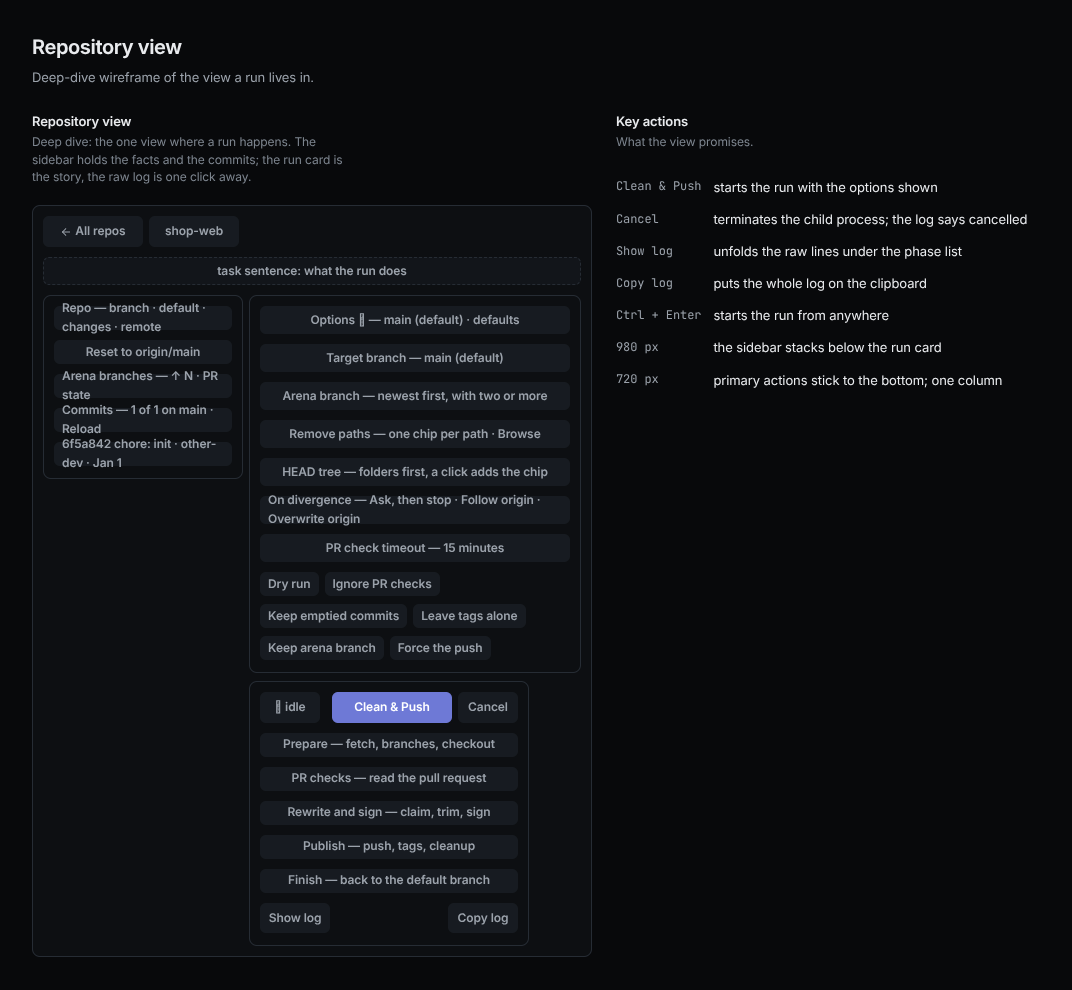
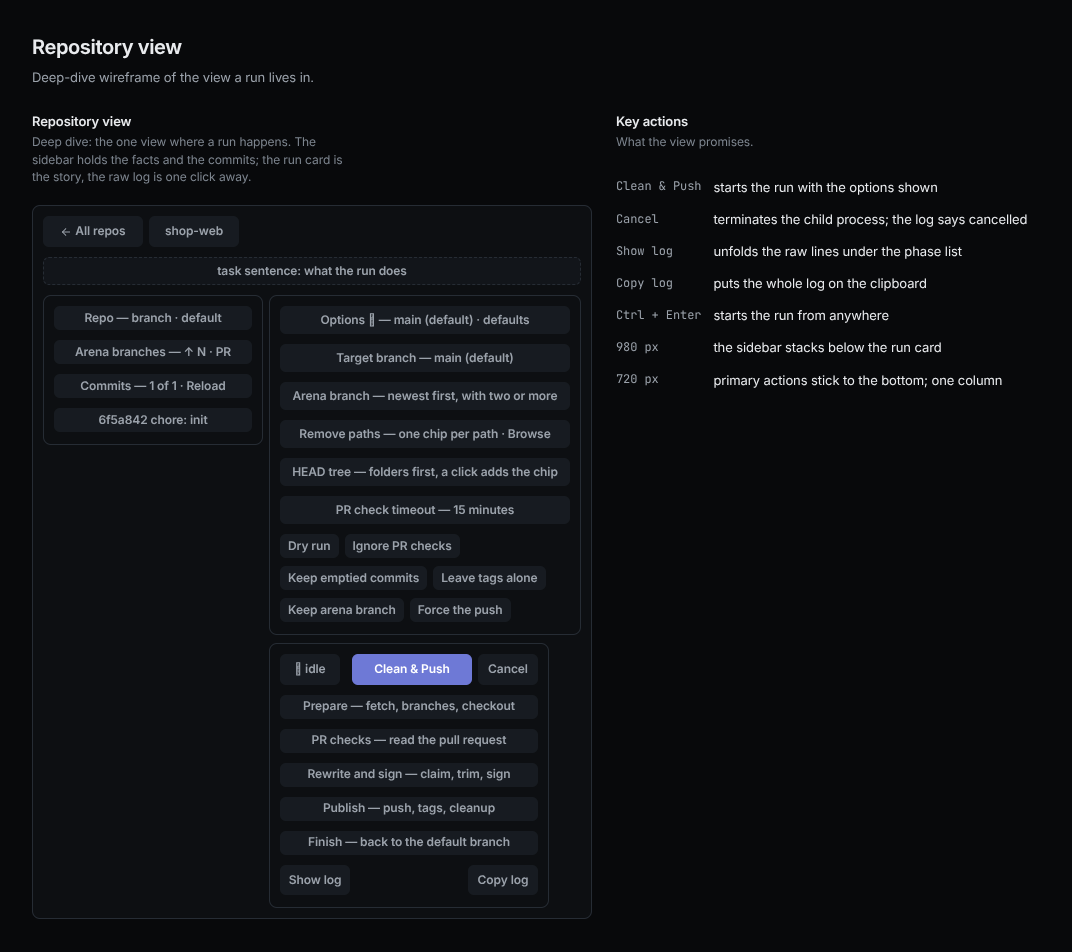
feat(ui): reset a managed clone to origin before every run

diff --git a/ui/static/index.html b/ui/static/index.html
@@ -150,7 +150,6 @@
   .btn.ghost.rm { color: var(--dim); border-color: transparent; background: transparent; width: 30px; height: 30px; padding: 0; margin-left: auto; }
   .btn.ghost.rm:hover, .btn.ghost.rm:active { color: var(--err); border-color: rgba(240, 87, 79, .5); background: rgba(240, 87, 79, .1); }
   .btn.ghost.rm.armed { width: auto; padding: 0 10px; }
-  .side-btn { margin: 6px 6px 0; justify-content: center; }
   .icon-btn {
     display: inline-grid; place-items: center; width: 32px; height: 32px; font-size: 16px;
     border-radius: 8px; border: 1px solid var(--line-2); background: var(--surface-2);
@@ -335,7 +334,7 @@
   .card-head .hint { color: var(--dim); font-size: var(--fs-1); }
   .card-body { padding: 16px; }
 
-  /* two columns: the divergence control needs about 360 px, which four cells never give */
+  /* two columns: a field with its description needs about 360 px, which four cells never give */
   .options { display: grid; grid-template-columns: repeat(2, minmax(0, 1fr)); gap: 0 20px; }
   .opt { padding: 8px 2px; border-bottom: 1px solid var(--line); min-width: 0; }
   .opt[hidden] { display: none; }
@@ -390,12 +389,6 @@
   .toggle.danger[aria-pressed="true"] .sw::after { background: var(--warn); }
   .toggle small { color: var(--dim); font-size: var(--fs-1); }
 
-  .seg-row { display: inline-flex; gap: 2px; padding: 2px; border-radius: 9px; background: var(--surface-2); border: 1px solid var(--line-2); }
-  .seg-row button { border: 0; background: none; color: var(--muted); padding: 4px 12px; border-radius: 6px; cursor: pointer; font-size: var(--fs-2); font-weight: 520; }
-  /* a narrow cell wraps whole buttons onto a second row, never the words inside one */
-  .seg-row { flex-wrap: wrap; }
-  .seg-row button { white-space: nowrap; flex: 1 1 auto; }
-  .seg-row button[aria-pressed="true"] { background: var(--surface-3); color: var(--text); box-shadow: inset 0 0 0 1px var(--line-2); }
 
   .console { display: flex; flex-direction: column; position: relative; }
   .console .card-head { border-bottom: 0; }
@@ -606,7 +599,7 @@
     .arena-row .prlink { min-height: 44px; }
     .btn, .btn.back { min-height: 44px; }
     .field, select.field { height: 44px; }
-    .seg-row button, .toggle { min-height: 44px; }
+    .toggle { min-height: 44px; }
     .tabbar .btn { height: 46px; font-size: 15px; }
     .chip-x { padding: 4px 4px 4px 10px; }
     .chip-x button { padding: 4px 6px; }
@@ -624,7 +617,6 @@
     .banner, .toast, .wrap h2, .card-head h2, .skip, .steps,
     .opt-label label, .opt-label span.lbl, .phase-name, .toggle { font-size: 13px; }
     .status, #statustext, .phase-ico, .commit .sig, .commit .sha, .toggle small { font-size: 12px; }
-    .seg-row button { font-size: 14px; }
     .brand .name, .repo-card .btn, .card-actions .btn, .run-foot .btn { font-size: 14px; }
     .wrap h1, .hero h1, .wrap h1.page-title { font-size: 19px; }
   }
@@ -720,14 +712,6 @@
                 <input id="pathin" placeholder="add a file or folder…" spellcheck="false" autocomplete="off" aria-label="Add a path to remove">
               </div>
               <div class="tree" id="tree" role="tree" aria-label="Files at HEAD" hidden></div>
-            </div>
-            <div class="opt" id="opt-div">
-              <div class="opt-label"><span class="lbl">On divergence</span><span class="desc">local vs origin</span></div>
-              <div class="seg-row" id="divergence">
-                <button data-v="ask" aria-pressed="true" title="Cancels the run and reports the commits that differ. Nothing is pushed.">Ask, then stop</button>
-                <button data-v="remote" aria-pressed="false" title="Drops local commits that origin does not have, then rewrites what origin has.">Follow origin</button>
-                <button data-v="local" aria-pressed="false" title="Keeps the local commits and pushes them over origin.">Overwrite origin</button>
-              </div>
             </div>
             <div class="opt" id="opt-timeout">
               <div class="opt-label"><label for="timeout">PR check timeout</label><span class="desc">minutes, 0 = don’t wait</span></div>
@@ -825,7 +809,6 @@
     repos: [],
     repo: null,
     opts: { dry_run: false, skip_pr_check: false, keep_empty: false, no_tags: false, keep_branch: false, force: false },
-    divergence: "ask",
     paths: [],
     branch: "",
     arena: "",
@@ -1010,7 +993,6 @@
       meta.append(el("span", { class: "pill err" }, el("i", { class: "dot" }), s.reason || "unavailable"));
     } else {
       meta.append(el("span", { class: "pill mono" }, s.branch));
-      if (s.dirty) meta.append(el("span", { class: "pill warn" }, `${s.dirty} uncommitted`));
     }
 
     let arena = null;
@@ -1155,37 +1137,8 @@
                el("span", { class: "meta" }, metaFor((s.pr || {})[b], s.pr_checked)))))
         : [el("div", { class: "row-btn", style: "cursor:default;color:var(--dim)" }, el("span", { class: "txt" }, "none on origin"))]));
 
-    // Two clicks, like the card's Remove: the first arms, the second resets.
-    const target = `origin/${s.default || "?"}`;
-    let timer = 0;
-    const disarm = () => { reset.classList.remove("armed"); reset.textContent = `Reset to ${target}`; };
-    const reset = el("button", {
-      class: "btn ghost side-btn", id: "reset-btn",
-      title: "Check out the default branch and reset it hard to origin. Untracked files stay.",
-      onclick: async () => {
-        if (!reset.classList.contains("armed")) {
-          reset.classList.add("armed");
-          reset.textContent = "Discard local changes?";
-          timer = setTimeout(disarm, 4000);
-          return;
-        }
-        clearTimeout(timer);
-        reset.disabled = true;
-        try {
-          const out = await post(`/api/repos/${state.repo.id}/reset`, {});
-          toast(`reset to ${out.reset}`);
-          await refreshStatus();
-          loadCommits();
-        } catch (err) {
-          toast(err.message);
-          reset.disabled = false;
-          disarm();
-        }
-      },
-    }, `Reset to ${target}`);
-
     side.replaceChildren(
-      el("div", { class: "side-group" }, el("div", { class: "side-label" }, "Repo"), kv, reset),
+      el("div", { class: "side-group" }, el("div", { class: "side-label" }, "Repo"), kv),
       branches);
   }
 
@@ -1313,7 +1266,6 @@
       keep_empty: state.opts.keep_empty,
       branch: state.branch || "",
       arena: state.arena || "",
-      divergence: state.divergence,
       force: state.opts.force,
       skip_pr_check: state.opts.skip_pr_check,
       keep_branch: state.opts.keep_branch,
@@ -1334,7 +1286,6 @@
     if (body.keep_branch) parts.push("--keep-branch");
     if (body.no_tags) parts.push("--no-tags");
     if (body.force) parts.push("--force");
-    if (body.divergence !== "ask") parts.push("--on-divergence", body.divergence);
     parts.push("--check-timeout", String(Number($("timeout").value || 15) * 60));
     return parts.join(" ");
   }
@@ -1343,7 +1294,6 @@
     ["dry_run", "dry run"], ["skip_pr_check", "ignore PR checks"], ["keep_empty", "keep emptied"],
     ["no_tags", "leave tags"], ["keep_branch", "keep arena branch"], ["force", "force"],
   ];
-  const DIVERGENCE_WORDS = { remote: "follow origin", local: "overwrite origin" };
 
   function optionsSummary() {
     const body = payload();
@@ -1351,7 +1301,6 @@
     if (state.arena) bits.push(state.arena);
     if (state.paths.length) bits.push(`${state.paths.length} path${state.paths.length === 1 ? "" : "s"}`);
     for (const [key, word] of SUMMARY_WORDS) if (body[key]) bits.push(word);
-    if (body.divergence !== "ask") bits.push(DIVERGENCE_WORDS[body.divergence] || body.divergence);
     const minutes = Number($("timeout").value || 15);
     if (minutes !== 15) bits.push(`${minutes} min`);
     return bits.length ? bits.join(" · ") : "defaults";
@@ -2062,14 +2011,6 @@
     const key = btn.dataset.opt;
     state.opts[key] = !state.opts[key];
     btn.setAttribute("aria-pressed", String(state.opts[key]));
-    renderCommand();
-  };
-
-  $("divergence").onclick = (ev) => {
-    const btn = ev.target.closest("button[data-v]");
-    if (!btn) return;
-    state.divergence = btn.dataset.v;
-    for (const b of $("divergence").querySelectorAll("button")) b.setAttribute("aria-pressed", String(b === btn));
     renderCommand();
   };
 

diff --git a/scripts/design_boards.py b/scripts/design_boards.py
@@ -319,9 +319,6 @@ def wireframe_board(_: dict[str, bytes]) -> str:
     + block("Arena branch — newest first, with two or more", height=28)
     + block("Remove paths — one chip per path · Browse", height=28)
     + block("HEAD tree — folders first, a click adds the chip", height=28)
-    + block(
-      "On divergence — Ask, then stop · Follow origin · Overwrite origin", height=28
-    )
     + block("PR check timeout — 15 minutes", height=28)
     + '<div class="bar" style="flex-wrap:wrap">'
     + "".join(
@@ -361,11 +358,10 @@ def wireframe_board(_: dict[str, bytes]) -> str:
     + "</div>"
   )
   sidebar = (
-    block("Repo — branch · default · changes · remote", height=24)
-    + block("Reset to origin/main", height=24)
-    + block("Arena branches — ↑ N · PR state", height=24)
-    + block("Commits — 1 of 1 on main · Reload", height=24)
-    + block("6f5a842  chore: init · other-dev · Jan 1", height=24)
+    block("Repo — branch · default", height=24)
+    + block("Arena branches — ↑ N · PR", height=24)
+    + block("Commits — 1 of 1 · Reload", height=24)
+    + block("6f5a842  chore: init", height=24)
   )
   screen = (
     '<div class="scr wide" style="width:560px">'
@@ -375,7 +371,7 @@ def wireframe_board(_: dict[str, bytes]) -> str:
     + "</div>"
     + block("task sentence: what the run does", soft=True, height=28)
     + '<div class="bar" style="align-items:flex-start">'
-    + f'<div class="scr" style="width:200px">{sidebar}</div>'
+    + f'<div class="scr" style="width:220px">{sidebar}</div>'
     + '<div class="col" style="gap:8px;flex:1">'
     + f'<div class="scr" style="width:auto">{options}</div>'
     + f'<div class="scr" style="width:auto">{run}</div>'
@@ -703,9 +699,7 @@ def do_dont_board(_: dict[str, bytes]) -> str:
     ahead = f"{icon('arrow-up')}23"
     return "".join(
       f'<span class="pill {cls}" style="margin-right:{g}px">{t}</span>'
-      for g, cls, t in zip(
-        gaps, ("mono", "warn", "mono ahead"), ("main", "3 uncommitted", ahead)
-      )
+      for g, cls, t in zip(gaps, ("mono", "", "mono ahead"), ("main", "#203", ahead))
     )
 
   spacing_do = f'<div class="off" style="gap:0">{meta_pills((6, 6, 0))}</div>'

diff --git a/tests/test_ui.py b/tests/test_ui.py
@@ -269,6 +269,37 @@ def test_add_by_clone_url(ui: UI, world: World, ids: dict[str, str]) -> None:
   assert ui.status("GET", "/api/repos/deadbeef1234") == 404
 
 
+def test_a_run_resets_a_managed_clone(
+  ui: UI, world: World, ids: dict[str, str]
+) -> None:
+  path = Path(ids["clone_path"])
+
+  def git(*args: str) -> str:
+    return world.git("-c", "commit.gpgsign=false", *args, cwd=path)
+
+  # local work: a stale arena copy with a commit, and a dirty tree
+  git("checkout", "-q", "-b", "arena/stale-copy")
+  (path / "junk.txt").write_text("stale\n")
+  git("add", "junk.txt")
+  git(
+    "-c", "user.name=t", "-c", "user.email=t@example.com", "commit", "-q", "-m", "stale"
+  )
+  tracked = git("ls-files").splitlines()[0]
+  (path / tracked).write_text("dirty\n")
+  assert git("status", "--porcelain") != ""
+
+  job = ui.post(
+    f"/api/repos/{ids['clone']}/jobs",
+    {"action": "run", "dry_run": True, "arena": "arena/ui-test"},
+  )
+  assert ui.wait_for_job(job["id"])["status"] == "done"
+  assert git("rev-parse", "--abbrev-ref", "HEAD") == "main"
+  assert git("rev-parse", "HEAD") == git("rev-parse", "origin/main")
+  assert git("status", "--porcelain") == "", "origin wins over local changes"
+  assert git("branch", "--list", "arena/*") == "", "local arena copies are gone"
+  assert "arena/ui-test" in ui.get(f"/api/repos/{ids['clone']}")["status"]["arena"]
+
+
 def test_one_click_dry_run_job(ui: UI, world: World, ids: dict[str, str]) -> None:
   before = world.rev()
   job = ui.post(

diff --git a/scripts/walk.py b/scripts/walk.py
@@ -348,6 +348,9 @@ def sidebar_and_branch_selector(w: Walker, demo: Demo) -> None:
   assert w.count("#sidebar button[data-branch]") == 0, "arena rows are not targets"
   assert w.count("#sidebar .row-btn .ahead") == 1
   assert "HEAD" not in sidebar, "the HEAD block is gone"
+  assert w.count("#reset-btn") == 0 and w.count("#divergence") == 0, (
+    "origin wins before every run"
+  )
   assert w.count("#sidebar .commit") >= 1, "the commits live in the sidebar"
   assert (
     w.page.eval_on_selector("#sidebar", "e => e.getBoundingClientRect().width") == 320
@@ -365,14 +368,6 @@ def option_toggle_updates_the_argv(w: Walker, demo: Demo) -> None:
   assert "--dry-run" in w.start_argv()
   w.click(toggle, 200)
   assert "--dry-run" not in w.start_argv()
-
-
-@step("desktop")
-def divergence_segmented_control(w: Walker, demo: Demo) -> None:
-  w.click('#divergence button[data-v="remote"]', 200)
-  assert "--on-divergence remote" in w.start_argv()
-  w.click('#divergence button[data-v="ask"]', 200)
-  assert "--on-divergence" not in w.start_argv()
 
 
 @step("desktop")

diff --git a/ui/server.py b/ui/server.py
@@ -371,6 +371,17 @@ def reset_to_origin(repo: dict[str, Any]) -> str:
   return f"origin/{default}"
 
 
+def prepare_managed_clone(repo: dict[str, Any]) -> str:
+  """A managed clone holds nothing of its own: before a run, origin wins and local arena copies go."""
+  target = reset_to_origin(repo)
+  cwd = repo["path"]
+  for name in git(
+    "for-each-ref", "--format=%(refname:short)", "refs/heads/arena/", cwd=cwd
+  ).splitlines():
+    run_cmd(["git", "branch", "-D", "-q", name], cwd=cwd)
+  return target
+
+
 def repo_status(repo: dict[str, Any]) -> dict[str, Any]:
   cwd = repo["path"]
   if not os.path.isdir(cwd):
@@ -1255,6 +1266,8 @@ class Handler(BaseHTTPRequestHandler):
         repo = self._repo(parts[2])
         body = self._body()
         argv = build_argv(body, repo)
+        if repo.get("managed"):
+          prepare_managed_clone(repo)
         job = new_job(argv, repo)
         STATUS.drop(repo["id"])
         self._json({"id": job.id, "argv": argv[2:]}, 201)

diff --git a/docs/design.md b/docs/design.md
@@ -27,8 +27,8 @@ The one design record for the arena-cleanup web app. The sections follow the nem
 
 ## Screens and states
 
-- Dashboard: add bar, repository cards. Empty: a hint with the add command. Error: a banner above the cards. A card shows the branch and `N uncommitted` only when the clone is dirty. Each arena row carries `↑ N`, the commits that branch holds beyond `origin/<default>`, with a tooltip. The Remove X sits top right as a bare glyph. A red frame comes on hover, on press, and while armed.
-- Repository: a 320 px sidebar, options card, run card with the phase list and log. The options card folds from its head; closed, the head shows the branch pill and what differs from the defaults. Target branch lists the default branch first and never an `arena/*` branch. Arena branch appears with two or more arena branches, newest tip first. The chosen one goes to the run as `--arena`. The sidebar holds the repo facts, Reset to origin, and the arena rows on top. The commit list fills the rest and scrolls on its own. Each row shows hash, subject, author, and date; Reload sits in its label. The arena rows show the PR state and are not controls. The page runs the full flow only; `strip` is a CLI command. Browse under Remove paths opens the HEAD tree of the clone, one level per request. A click on a row or its plus adds the chip. Log rows show the clock of the browser. Remove on a card arms on the first click and deletes the URL clone on the second. States: idle, running, done, failed, cancelled. Reset to origin is a two-click button that checks out the default branch and resets it hard.
+- Dashboard: add bar, repository cards. Empty: a hint with the add command. Error: a banner above the cards. A card shows the branch. Each arena row carries `↑ N`, the commits that branch holds beyond `origin/<default>`, with a tooltip. The Remove X sits top right as a bare glyph. A red frame comes on hover, on press, and while armed.
+- Repository: a 320 px sidebar, options card, run card with the phase list and log. The options card folds from its head; closed, the head shows the branch pill and what differs from the defaults. Target branch lists the default branch first and never an `arena/*` branch. Arena branch appears with two or more arena branches, newest tip first. The chosen one goes to the run as `--arena`. The sidebar holds the repo facts and the arena rows on top. The commit list fills the rest and scrolls on its own. Each row shows hash, subject, author, and date; Reload sits in its label. The arena rows show the PR state and are not controls. The page runs the full flow only; `strip` is a CLI command. Browse under Remove paths opens the HEAD tree of the clone, one level per request. A click on a row or its plus adds the chip. Log rows show the clock of the browser. Remove on a card arms on the first click and deletes the URL clone on the second. States: idle, running, done, failed, cancelled. A managed clone goes back to origin before every run. The server fetches, checks out the default branch, resets hard, and drops local `arena/*` copies.
 - Settings: Identity (name, email, Save), GitHub sign-in and credential helper, signing cards, Claimed commits (two chip lists, Save). Below: About. Signing cards: gpg banner when gpg is missing, key list, create card, GitHub key steps. Disabled: Create key while gpg is missing. Error: the banner names the failed check. Each card loads on its own.
 - Offline: the service worker serves the shell; data requests fail with the normal error banner.
 - Loading and permission states: not run as separate checks.
@@ -91,7 +91,7 @@ The one design record for the arena-cleanup web app. The sections follow the nem
 ## Behavior and data
 
 - The repository registry and settings live on the server under `ARENA_DATA`. The page keeps no state beyond the open view.
-- Defaults: divergence set to Ask, then stop; PR check timeout 15 minutes; dry run off.
+- Defaults: PR check timeout 15 minutes; dry run off.
 - Validation: the add bar accepts a clone URL, a GitHub page address, or a path. The server answers errors as text the banner shows.
 - Retries: none automatic; Re-check and Reload buttons repeat a read.
 
@@ -129,7 +129,8 @@ The one design record for the arena-cleanup web app. The sections follow the nem
 - Accepted 2026-10-22: no command switch on the repository page. A local rewrite without a push is a terminal task, so `strip` lives in the CLI alone.
 - Accepted 2026-10-22: the whole options card folds, not the Target branch row alone. The select names the default branch first, keeps the empty value, and lists no `arena/*` branch; the server refuses one too.
 - Accepted 2026-10-22: with two or more arena branches the page selects one, newest tip first, in the options card. The engine gained `--arena NAME` for it and keeps the full flow. The page never passes `-b arena/*`.
-- Accepted 2026-10-22: the sidebar grows to 320 px. The commit list sits below the repo facts, Reset, and the arena rows. The HEAD block goes. The hash leads each commit row. Below 980 px the sidebar stacks under the run card instead of hiding.
+- Accepted 2026-10-22: the sidebar grows to 320 px. The commit list sits below the repo facts and the arena rows. The HEAD block goes. The hash leads each commit row. Below 980 px the sidebar stacks under the run card instead of hiding.
+- Accepted 2026-10-22: a managed clone holds nothing of its own. The server resets it to origin before every run and drops local `arena/*` copies. The page loses the Reset button, the dirty chip, and On divergence; `--on-divergence` stays a CLI flag.
 - Accepted 2026-10-22: the card and the sidebar show how far each arena branch is ahead of the default branch. The clone's own drift stays out of sight. Nobody commits in the container, and the engine handles that divergence itself.
 - Accepted 2026-10-22: the primary button reads Clean & Push. The phase list keeps Publish for the push, tags, and cleanup step.
 - Accepted 2026-10-22: a tree selector for Remove paths. It reads `git ls-tree` of HEAD in the clone, so it works for path repositories and never calls GitHub. File contents stay out; a path only old commits carried stays a typed chip.

diff --git a/CHANGELOG.md b/CHANGELOG.md
@@ -29,16 +29,16 @@ and the project uses [Semantic Versioning](https://semver.org/spec/v2.0.0.html).
 - The repository card meta drops the tag count; it shows the branch and the tree state.
 - Arena rows on the card and in the sidebar show `↑ N` with a tooltip. N counts the commits beyond the default branch.
 - `run -a/--arena NAME` answers the arena branch menu without a prompt. The page shows that select, newest tip first, when a repository has two or more arena branches. The card button uses the newest.
-- The repository sidebar is 320 px wide. It lists the commits below the repo facts, Reset, and the arena rows. The HEAD block is gone. Below 980 px it stacks under the run card.
+- The repository sidebar is 320 px wide. It lists the commits below the repo facts and the arena rows. The HEAD block is gone. Below 980 px it stacks under the run card.
 - A shallow history: one Back leaves a sub-view, the next one leaves the page.
-- The card shows `N uncommitted` only when the clone is dirty.
+- A managed clone resets to origin before every run. The server fetches, checks out the default branch, resets hard, and drops local `arena/*` copies. The page has no Reset button, dirty chip, or On divergence control; `--on-divergence` stays a CLI flag.
 - The app copy says repo and repos.
 - The claim rules come from the global git config keys `arena.claim-email` and `arena.claim-name`; the constants are the fallback. The container seeds the identity only while git config is empty.
 - One Settings page behind the gear icon: Identity, GitHub access, Commit signing, and Claimed commits, then About.
-- The options card keeps two columns above 980 px; four columns overflowed between 981 and 1179 px. The divergence control wraps whole buttons, not words.
+- The options card keeps two columns above 980 px; four columns overflowed between 981 and 1179 px.
 - Log rows show the clock of the browser. The engine stamps each line in the server zone.
 - Remove on a card deletes its URL clone from the volume; a path repo is only forgotten.
-- Reset to origin in the repository sidebar: fetch, check out the default branch, and reset it hard. Untracked files stay.
+- `POST /api/repos/<id>/reset`: fetch, check out the default branch, and reset it hard. Untracked files stay.
 - The repository page runs the full flow only. The Rewrite locally switch is gone, and `strip` stays a CLI command.
 - The card Remove X sits top right as a bare glyph. A red frame comes on hover, on press, and while armed.
 - The primary button reads Clean & Push on the card, the run card, and the phone bar.

diff --git a/README.md b/README.md
@@ -94,9 +94,8 @@ flags, and `arena-cleanup doctor` checks the setup.
 3. About sits below the settings.
 4. **Clean & Push** runs the pipeline and streams the log. A click on the
    card shows the repo view first: target branch, paths to remove, the
-   divergence policy, the check timeout, and the options (dry run, skip the
-   PR gate, keep empty commits, leave tags alone, keep the branch, force the
-   push).
+   check timeout, and the options (dry run, skip the PR gate, keep empty
+   commits, leave tags alone, keep the branch, force the push).
 
 Signed out, every card reads **checks unavailable** instead of **no PR**. The
 run writes a backup bundle before each rewrite stage, and **Cancel** stops a
